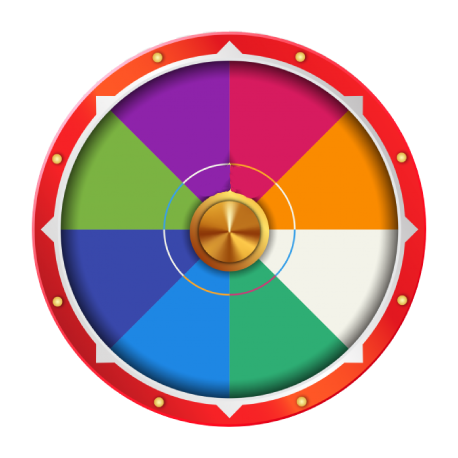
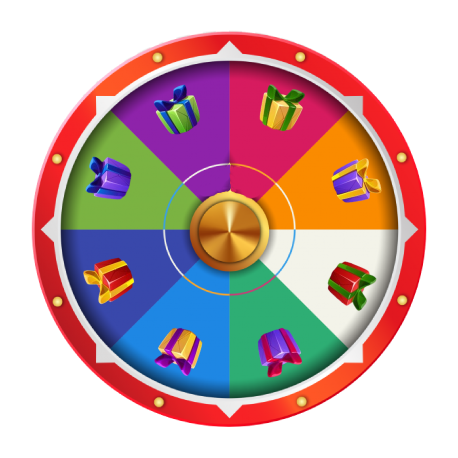
update

diff --git a/src/pages/Game/Game.js b/src/pages/Game/Game.js
@@ -1,89 +1,101 @@
-import React, { useEffect, useRef } from 'react';
-import Phaser from 'phaser';
+import React, { useEffect, useRef } from 'react'; // Импорт React и хуков useEffect и useRef из библиотеки 'react'
+import Phaser from 'phaser'; // Импорт библиотеки Phaser для создания игр
 
 // КЛАСС СЦЕНЫ ВРАЩЕНИЯ КОЛЕСА
 class WheelScene extends Phaser.Scene {
     constructor() {
-        super({ key: 'WheelScene' });
+        super({ key: 'WheelScene' }); // Вызов конструктора родительского класса Phaser.Scene с ключом сцены 'WheelScene'
     }
 
     preload() {
         // Предварительная загрузка графических ресурсов
-        this.load.image('wheel', '/assets/wheel.png'); // Убедитесь, что путь правильный
-        this.load.image('pin', '/assets/pin.png');     // Убедитесь, что путь правильный
+        this.load.image('wheel', '/assets/wheel.png'); // Загрузка изображения колеса с ключом 'wheel'
+        this.load.image('pin', '/assets/pin.png');       // Загрузка изображения булавки с ключом 'pin'
+        this.load.image('bg', '/assets/bg.jpg');         // Загрузка фонового изображения с ключом 'bg'
+        this.load.image('topText', '/assets/textTop.png');  
+        this.load.image('bottomText', '/assets/textBottom.png');       
     }
 
     create() {
         // Инициализация переменных
-        this.canSpin = true;
-        this.slicePrizes = [
-            { name: "A KEY!!!", weight: 10 },       // 10%
-            { name: "50 STARS", weight: 20 },      // 20%
-            { name: "500 STARS", weight: 30 },     // 30%
-            { name: "BAD LUCK!!!", weight: 10 },   // 10%
-            { name: "200 STARS", weight: 15 },     // 15%
-            { name: "100 STARS", weight: 5 },      // 5%
-            { name: "150 STARS", weight: 5 },      // 5%
-            { name: "BAD LUCK!!!", weight: 5 }     // 5%
+        this.canSpin = true; // Флаг, указывающий, можно ли вращать колесо
+        this.slicePrizes = [ // Массив призов, разделенных на секции колеса с их весами для вероятности выпадения
+            { name: "A KEY!!!", weight: 10 },       // Приз "A KEY!!!" с весом 10%
+            { name: "50 STARS", weight: 20 },      // Приз "50 STARS" с весом 20%
+            { name: "500 STARS", weight: 30 },     // Приз "500 STARS" с весом 30%
+            { name: "BAD LUCK!!!", weight: 10 },   // Приз "BAD LUCK!!!" с весом 10%
+            { name: "200 STARS", weight: 15 },     // Приз "200 STARS" с весом 15%
+            { name: "100 STARS", weight: 5 },      // Приз "100 STARS" с весом 5%
+            { name: "150 STARS", weight: 5 },      // Приз "150 STARS" с весом 5%
+            { name: "BAD LUCK!!!", weight: 5 }     // Приз "BAD LUCK!!!" с весом 5%
         ];
+        // Вычисление общей суммы весов для выбора приза
         this.totalWeight = this.slicePrizes.reduce((acc, prize) => acc + prize.weight, 0);
-        this.cumulativeWeights = [];
-        let cumulative = 0;
+        this.cumulativeWeights = []; // Массив накопительных весов для определения границ вероятностей
+        let cumulative = 0; // Переменная для накопления весов
+        // Заполнение массива накопительных весов
         this.slicePrizes.forEach(prize => {
-            cumulative += prize.weight;
-            this.cumulativeWeights.push(cumulative);
+            cumulative += prize.weight; // Добавление веса текущего приза к накопленной сумме
+            this.cumulativeWeights.push(cumulative); // Добавление накопленной суммы в массив
         });
-        this.slices = this.slicePrizes.length;
-        this.anglePerSlice = 360 / this.slices;
+        this.slices = this.slicePrizes.length; // Количество секций на колесе
+        this.anglePerSlice = 360 / this.slices; // Угол, соответствующий одной секции колеса
 
-        // Добавление текста для отображения выигрыша
-        this.prizeText = this.add.text(this.cameras.main.width / 2, 650, '', {
-            font: '24px Arial',
-            fill: '#ffffff',
-            align: 'center'
-        }).setOrigin(0.5);
+        
+
+        // Добавление фонового изображения в центр холста
+        this.bg = this.add.sprite(this.cameras.main.width / 2, this.cameras.main.height / 2, 'bg');
+
+        this.topText = this.add.sprite(this.cameras.main.width / 2, 90, 'topText');
+        this.bottomText = this.add.sprite(this.cameras.main.width / 2, 600, 'bottomText');
 
         // Добавление колеса в центр холста
         this.wheel = this.add.sprite(this.cameras.main.width / 2, this.cameras.main.height / 2, 'wheel');
-        this.wheel.setOrigin(0.5);
+        this.wheel.setOrigin(0.5); // Установка точки привязки колеса в центр
 
-        // Добавление булавки 
+        // Добавление булавки в центр холста
         const pin = this.add.sprite(this.cameras.main.width / 2, this.cameras.main.height / 2, 'pin');
-        pin.setOrigin(0.5);
+        pin.setOrigin(0.5); // Установка точки привязки булавки в центр
+
+        // Добавление текста для отображения выигрыша
+        this.prizeText = this.add.text(this.cameras.main.width / 2, 650, '', { // Создание текстового объекта
+            font: '24px Arial', // Установка шрифта и размера
+            fill: '#ffffff',     // Установка цвета текста (белый)
+            align: 'center'      // Выравнивание текста по центру
+        }).setOrigin(0.5); // Установка точки привязки текста в центр
 
         // Обработчик клика для вращения колеса
-        this.input.once('pointerdown', this.spinWheel, this);
+        this.input.once('pointerdown', this.spinWheel, this); // Добавление однократного обработчика события 'pointerdown' для запуска функции spinWheel
     }
 
     // Функция для вращения колеса
     spinWheel() {
-        if (this.canSpin) {
-            this.canSpin = false;
-            this.prizeText.setText('');
+        if (this.canSpin) { // Проверка, можно ли вращать колесо
+            this.canSpin = false; // Блокировка вращения до завершения текущего
+            this.prizeText.setText(''); // Очистка текста выигрыша
 
             // Выбор приза на основе весов
-            const rand = Phaser.Math.Between(1, this.totalWeight);
-            let selectedPrizeIndex = 0;
+            const rand = Phaser.Math.Between(1, this.totalWeight); // Генерация случайного числа от 1 до общей суммы весов
+            let selectedPrizeIndex = 0; // Индекс выбранного приза
+            // Определение, в какую категорию попадает случайное число
             for (; selectedPrizeIndex < this.cumulativeWeights.length; selectedPrizeIndex++) {
-                if (rand <= this.cumulativeWeights[selectedPrizeIndex]) {
-                    break;
+                if (rand <= this.cumulativeWeights[selectedPrizeIndex]) { // Если случайное число меньше или равно текущему накопленному весу
+                    break; // Прерывание цикла, найден соответствующий приз
                 }
             }
-
-            console.log('Random number:', rand, 'Selected prize index:', selectedPrizeIndex);
-
             // Вычисление целевого угла для вращения
             // Цель: выбранный приз должен оказаться под булавкой (0 градусов)
-            const targetAngle = 360 * Phaser.Math.Between(2, 4) + (360 - (selectedPrizeIndex * this.anglePerSlice + this.anglePerSlice / 2));
+            const targetAngle = 360 * Phaser.Math.Between(2, 4) + // Вращение колеса от 2 до 4 полных оборотов
+                (360 - (selectedPrizeIndex * this.anglePerSlice + this.anglePerSlice / 2)); // Добавление угла, необходимого для выравнивания выбранной секции под булавкой
 
             // Анимация вращения колеса
-            this.tweens.add({
-                targets: this.wheel,
-                angle: targetAngle,
-                duration: 3000,
-                ease: 'Cubic.easeOut',
-                onComplete: () => {
-                    this.displayPrize(selectedPrizeIndex);
+            this.tweens.add({ // Создание твина для анимации
+                targets: this.wheel, // Цель анимации - объект колеса
+                angle: targetAngle, // Установка целевого угла
+                duration: 3000, // Продолжительность анимации в миллисекундах (3 секунды)
+                ease: 'Cubic.easeOut', // Функция сглаживания анимации
+                onComplete: () => { // Функция, вызываемая после завершения анимации
+                    this.displayPrize(selectedPrizeIndex); // Вызов функции для отображения выигрыша
                 }
             });
         }
@@ -91,51 +103,51 @@ class WheelScene extends Phaser.Scene {
 
     // Функция для отображения выигрыша
     displayPrize(selectedPrizeIndex) {
-        this.canSpin = true;
-        const prize = this.slicePrizes[selectedPrizeIndex].name;
-        this.prizeText.setText(`Вы выиграли: ${prize}`);
+        this.canSpin = true; // Разблокировка возможности вращения колеса
+        const prize = this.slicePrizes[selectedPrizeIndex].name; // Получение названия выигранного приза по индексу
+        this.prizeText.setText(`Вы выиграли: ${prize}`); // Установка текста выигрыша
 
         // Повторное добавление обработчика клика для следующего вращения
-        this.input.once('pointerdown', this.spinWheel, this);
+        this.input.once('pointerdown', this.spinWheel, this); // Добавление однократного обработчика события 'pointerdown' для запуска функции spinWheel
     }
 }
 
 // КОМПОНЕНТ Game
 const Game = () => {
-    const gameRef = useRef(null);
-    const phaserGame = useRef(null);
+    const gameRef = useRef(null); // Создание рефа для контейнера Phaser
+    const phaserGame = useRef(null); // Создание рефа для экземпляра игры Phaser
 
-    useEffect(() => {
-        const config = {
-            type: Phaser.AUTO,
-            parent: gameRef.current,
-            width: 600,
-            height: 700,
-            backgroundColor: '#880044',
-            scene: [WheelScene],
-            physics: {
-                default: 'arcade',
-                arcade: {
-                    gravity: { y: 0 },
-                    debug: false
+    useEffect(() => { // Хук useEffect для инициализации и очистки Phaser игры
+        const config = { // Конфигурация игры Phaser
+            type: Phaser.AUTO, // Автоматический выбор рендерера (WebGL или Canvas)
+            parent: gameRef.current, // Контейнер для игры - текущий реф
+            width: 600, // Ширина игрового холста
+            height: 700, // Высота игрового холста
+            backgroundColor: '#880044', // Цвет фона холста
+            scene: [WheelScene], // Массив сцен, используемых в игре (в данном случае только WheelScene)
+            physics: { // Настройки физического движка
+                default: 'arcade', // Использование 'arcade' физики
+                arcade: { // Настройки для 'arcade' физики
+                    gravity: { y: 0 }, // Отсутствие гравитации по оси Y
+                    debug: false // Отключение режима отладки физики
                 }
             }
         };
 
         // Инициализация Phaser игры
-        phaserGame.current = new Phaser.Game(config);
+        phaserGame.current = new Phaser.Game(config); // Создание нового экземпляра игры Phaser с заданной конфигурацией
 
         // Очистка при размонтировании компонента
-        return () => {
-            if (phaserGame.current) {
-                phaserGame.current.destroy(true);
+        return () => { // Функция очистки, вызываемая при размонтировании компонента
+            if (phaserGame.current) { // Проверка, существует ли экземпляр игры
+                phaserGame.current.destroy(true); // Уничтожение экземпляра игры и удаление его из DOM
             }
         };
-    }, []);
+    }, []); // Пустой массив зависимостей означает, что эффект выполняется только один раз при монтировании
 
     return (
-        <div id="phaser-container" ref={gameRef}></div>
+        <div id="phaser-container" ref={gameRef}></div> // Возврат контейнера div с рефом для размещения игры Phaser
     );
 };
 
-export default Game;
+export default Game; // Экспорт компонента Game по умолчанию
